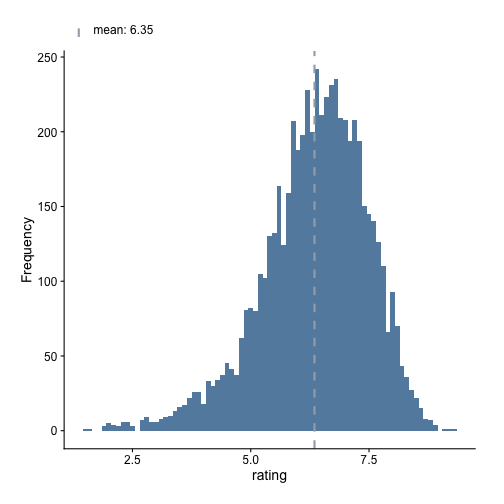
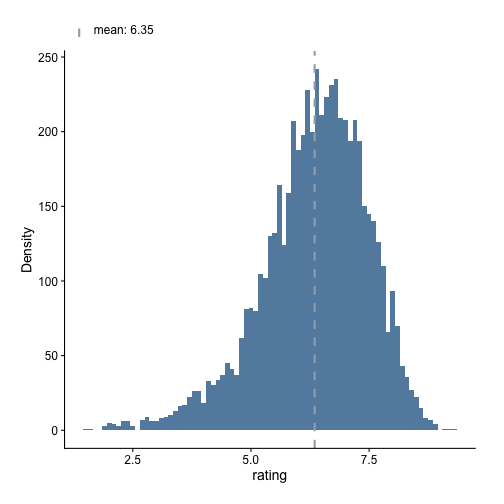
replaced mk_histogram() with mk_histdens() in ch 03-01

diff --git a/manuscript/03-01-histogram.md b/manuscript/03-01-histogram.md
@@ -5,35 +5,22 @@ qqplot to understand the distribution of a continuous variable. We'll take a
 deeper look at how to make histograms using ezplot in this section, and density 
 plot, boxplot and qqplot in the next three sections. 
 
-First, we load the `ezplot` library. It has a dataset of films. We can run the 
-command `?films` to see the descriptions of its variables. 
+First let's load the `ezplot` library and examine the variable `rating` from the `films` data frame by calling `str()` on it. The variable `rating` measures IMDB users' average ratings.
 
-A>
+
 ```r
 library(ezplot)
-?films
-```
-
-Notice it has a variable `rating`, which measures IMDB users' average ratings. 
-Check its type by running `str()`.
-
-A>
-```r
 str(films$rating)
 ```
-A>
+
 ```
  num [1:5944] 6.2 4.7 7.8 7.5 7.2 6.2 5 5.6 5.6 4.8 ...
 ```
 
-The output `num` says that R treats it as a numeric variable. A numeric variable 
-can be discrete (whole numbers) or continuous (decimal numbers). Looking at the 
-first few data values, it's clear `rating` is continuous. We can draw a 
-histogram to understand its distribution.
+The output `num` says that its type is numeric. Looking at the first few data values, it's clear `rating` is continuous. We can use a histogram to understand its distribution.
 
-A>
 ```r
-plt = mk_histogram(films)
+plt = mk_histdens(films, 'histogram')
 p = plt("rating") 
 p = add_labs(p, xlab = "IMDB Users' Average Rating", 
              title = "Distribution of Users' Average Ratings (1913-2014)")
@@ -42,7 +29,7 @@ print(p)
 
 ![Avg. Ratings with Mean and Median Lines](images/hist_rating_p1-1.png)
 
-We first called the function `mk_histogram()` on the data frame `films`, and 
+We first called the function `mk_histdens()` on the data frame `films`, and 
 obtained another function `plt()` in return. We then called the function `plt()` 
 on the variable name `"rating"` to draw the histogram. Note `"rating"` is in 
 quotes. It is the name of the variable instead of the variable symbol. 
@@ -51,33 +38,31 @@ ezplot function `add_labs()` and gave it a new x-axis label and title.
 
 The function `plt()` also takes other arguments in addition to the variable name
 of interest. For example, we can set `add_vline_median = FALSE` to only show
-the vertical line at the mean. We can also set `binw = 0.1` to change the size
+the vertical line at the mean. We can also set `binwidth = 0.1` to change the size
 of each bin and hence the number of bins. In practice, I often set `binw` or 
 `bins` a few times until I have a sufficiently large number of bins to show how 
 raw data are distributed without any smoothing.
 
-A>
 ```r
-p = plt("rating", add_vline_median = FALSE, binw = 0.1, legend_pos = "top") 
+p = plt("rating", add_vline_median = FALSE, binwidth = 0.1, legend_pos = "top") 
 print(p)
 ```
 
 ![Avg. Ratings with Mean Line](images/hist_rating_p2-1.png)
 
-Now I want you to run `?mk_histogram()` and read the documentation. When you 
+Now I want you to run `?mk_histdens()` and read the documentation. When you 
 encounter the bullet point `facet_by`, stop and ask yourself if you understand 
 what it does. 
 
 We've looked at the distribution of users' average ratings for all films. 
 What do users' average ratings look like for films that made money vs. films 
 that didn't? We can answer this question by bringing in another variable called 
-`made_money`. Again, let's `str()` it first.
+`made_money`. Let's `str` it first.
 
-A>
 ```r
 str(films$made_money)
 ```
-A>
+
 ```
  Factor w/ 2 levels "no","yes": 2 2 2 2 2 2 2 1 2 2 ...
 ```
@@ -86,9 +71,8 @@ So `made_money` is a factor with two levels (yes, no), indicating if a film made
 money or not. We can create 2 facets, one with a histogram of profitable films
 and the other of unprofitable films, by simply setting `facet_by = "made_money"`.    
 
-A>
 ```r
-p = plt("rating", facet_by = "made_money", binw=0.1, add_vline_mean = F) 
+p = plt("rating", facet_by = "made_money", binwidth=0.1, add_vline_mean = F) 
 print(p)
 ```
 
@@ -98,12 +82,12 @@ We see profitable films do have a higher median average rating, and it seems
 there're more profitable films (the height of the bottom histogram is higher).
 Let's check if this is true.
 
-A>
 ```r
 table(films$made_money)
 ```
-A>
+
 ```
+
   no  yes 
 1831 4113 
 ```
@@ -111,7 +95,4 @@ A>
 We see the number of profitable films is more than twice of the unprofitable 
 ones. Oh, there's another thing I want to point out. The colors in those
 charts we made are color-blind friendly. For homework, read the document of
-`mk_histogram()` and run the examples. You can pull up the document by running
-`?mk_histogram` in Rstudio. 
-
-
+`mk_histdens()` (`?mk_histogram`) and run the examples. 
